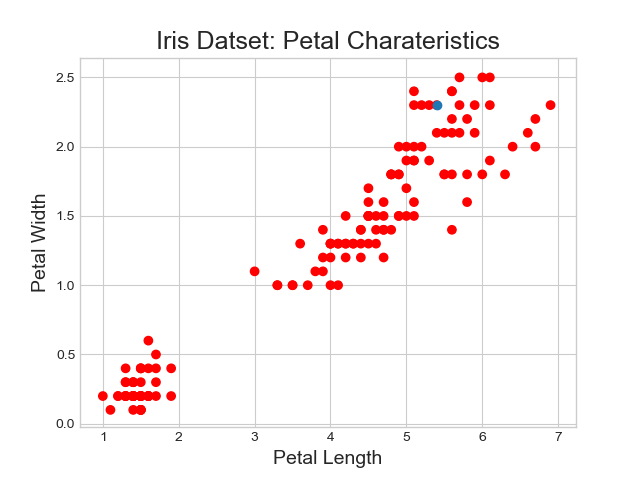
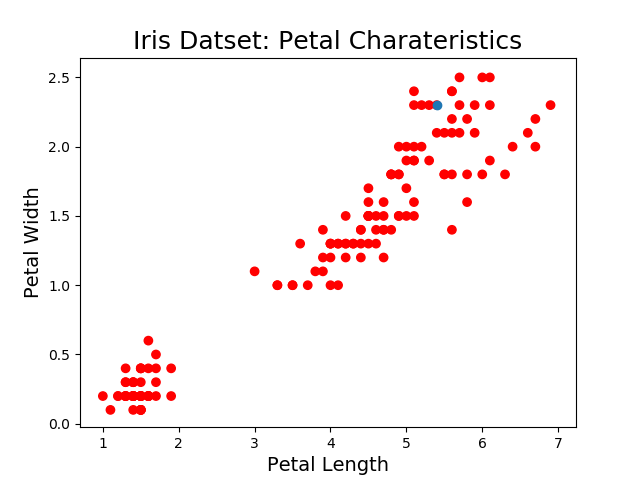
further work and tidy up

diff --git a/irisdataset.py b/irisdataset.py
@@ -4,7 +4,8 @@
 # it will form the basis of the statistical analysis
 # note - throughout I have used print statements to create empty lines, single, double and multiples
 
-#Import libraries
+#Import libraries 
+# as I built up the script I imported various libraries as needed 
 import numpy as np
 import pandas as pd
 import matplotlib.pyplot as plt
@@ -14,14 +15,14 @@ import datetime
 import time
 
 
-## below allows anyone running script to decide whether to save the print output to file or display in terminal
+# Below reads in data using Pandas and creates Numpy array of data
+# As the csv file I had used throughout had no headers I read in a version and added names to columns for use with pandas' describe.
+#
 
-# select plot style
-plt.style.use('seaborn-whitegrid')
-
-# below reads in data using Pandas and creates Numpy array of data
 data = pd.read_csv("iris.csv", header=-1) # note I set header =-1 as data in row 0
 A = np.array (data) # created a NumpPy array of the dataset
+datawithheaders = pd.read_csv("iris.csv", names= ('sepal length', 'sepal width', 'petal length', 'petal width', 'species'))
+
 
 ## Script below allows anyone running script to decide whether to save the print output to file or display in terminal
 ## if D is selected output will display on terminal
@@ -36,44 +37,41 @@ while True:
     elif response == "D":break    
     elif "D":break
 
-    
-#sum_col = (np.sum(A[:,0]))
-#avg_col = sum_col/150
 
 print('\n'*2)
 # Below prints the current date and time - acts as timestamp on output file if saved
+# http://www.pythonforbeginners.com/basics/python-datetime-time-examples was a useful source I used
+ 
+
+print ('Output of Irisdataset analysis: Student G00219132, Susan Hudson')
+print('\n'*2)
+print ('**************************************************')
 print ("Run date and time: " ,datetime.datetime.now().strftime("Date: %d-%m-%y    Time: %H-%M"))
-print('\n'*2)
-print (data)  # This printed the dataset 
+print ('**************************************************')
+print()
 
-## used print statements to create empty lines, single, double and multiples
-
-print('\n'*2)
-
+# print (data)  # This printed the dataset and was only used for code checking purposes
+# I have used print statements to create empty lines, single, double and multiples
 
 ## below are some basic stats for all species
-print ('SIMPLE STATISTICS FOR ALL MEASUREMENTS')
-print ("Minimum Sepal length all species is",np.min(A[:,0]),"cm")
-print ("Maximum Sepal length all species is",np.max(A[:,0]),"cm")
-print ("Mean Sepal length all species is", np.mean(A[:,0]),"cm")
-print()
-print ("Minimum Sepal width all species is",np.min(A[:,1]),"cm")
-print ("Maximum Sepal width all species is",np.max(A[:,1]),"cm")
-print ('Mean Sepal width all species is', np.mean(A[:,1]),"cm")
-print()
-print ("Minimum Petal Length all species is",np.min(A[:,2]),"cm")
-print ("Maximum Petal Length all species is",np.max(A[:,2]),"cm")
-print ('Mean Petal Length all species is', np.mean(A[:,2]),"cm")
-print()
-print ("Minimum Petal width all species is",np.min(A[:,3]),"cm")
-print ("Maximum Petal width all species is",np.max(A[:,3]),"cm")
-print ('Mean Petal width all species is', np.mean(A[:,3]),"cm")
+
+print('BASIC STATISTICS ALL SPECIES')
+print('----------------------------')
+
+for i in range (0,4):
+    feature = ['sepal length', 'sepal width', 'petal length', 'petal width']
+    print ("Minimum", feature [i], "for all species is", np.min(A[:,i]),"cm")
+    print ("Maximum", feature [i], "for all species is",np.max(A[:,i]),"cm")
+    print ("Mean", feature [i], " for all species is", np.mean(A[:,i]),"cm")
+    print()
+
+print('\n'*2)
 
 # below produces basic stats, this time grouped by species
 #data.groupby(4)[0].min()
 
 print ('SIMPLE STATISTICS GROUPED BY SPECIES')
-
+print ('------------------------------------')
 print('\n')
 print("Minimum sepal length per species" , data.groupby (4) [0].min())
 print('\n')
@@ -113,27 +111,31 @@ print (data[4].value_counts())
 
 print('\n')
 
-# below uses the describe function to produce some statistics of the Iris dataset
-# it is displayed and also saved to csv file summary.csv
-
-print('\n')
-
-# below uses the describe function to produce some general statistics of the Iris dataset
-# it is displayed and also saved to csv file summary.csv
-# initially created separate scripts for each feature but then wrote a looped version of the script
-# used course videos to assist in looped script
+# Below uses the describe function to produce some statistics of the Iris dataset
+# https://pandas.pydata.org/pandas-docs/stable/generated/pandas.DataFrame.describe.html
+# Additional sources of reference, when troubleshooting are listed below
+# 
+# https://stackoverflow.com/questions/32835498/pantdas-python-describe-formatting-output 
+# https://stackoverflow.com/questions/34091877/how-to-add-header-row-to-a-pandas-dataframe 
+# 
+# Iinitially created separate scripts for each feature but then wrote a looped version of the script
+# I used GMIT Programming & Scripting course videos to assist in looped script
 
  
 print ('STATISTICS USING DESCRIBE')
 print ('-------------------------') 
 
+# Script below produces statistics for features across all species 
+# it is displayed and also saved to csv file summary.csv
+
+print ('statistics for each feature for all species')
 print ()
-features_all = data.describe ()
+features_all = datawithheaders.describe ()
 print (features_all)
 features_all.to_csv('summary.csv')
 
 
-
+# Below is a loop to print statistcs using describe grouped by species
 
 for i in range (0,4):
     summary = data.groupby(4)[i].describe()
@@ -160,6 +162,8 @@ plt.show () #displays plot om termial
 
 # Petal charateristics
 # below is similar to sepal plot with an attempt to distinguish different species by colour
+# it did now work but I am leaving my attempt as may revisit when knowledge grows
+
 for i in range (0,len(A)-1):
 
         x, y =[A[i][2],A[i][3]] 
